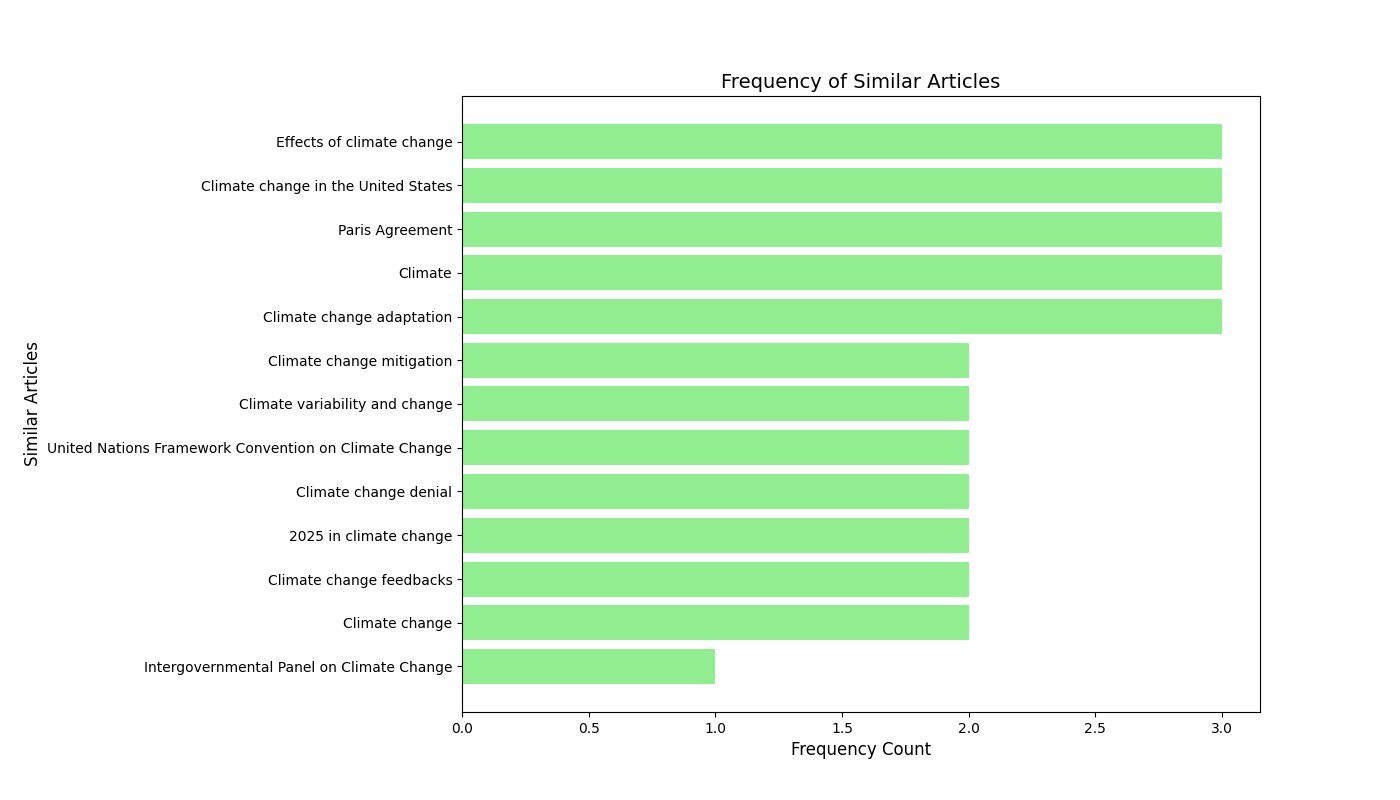
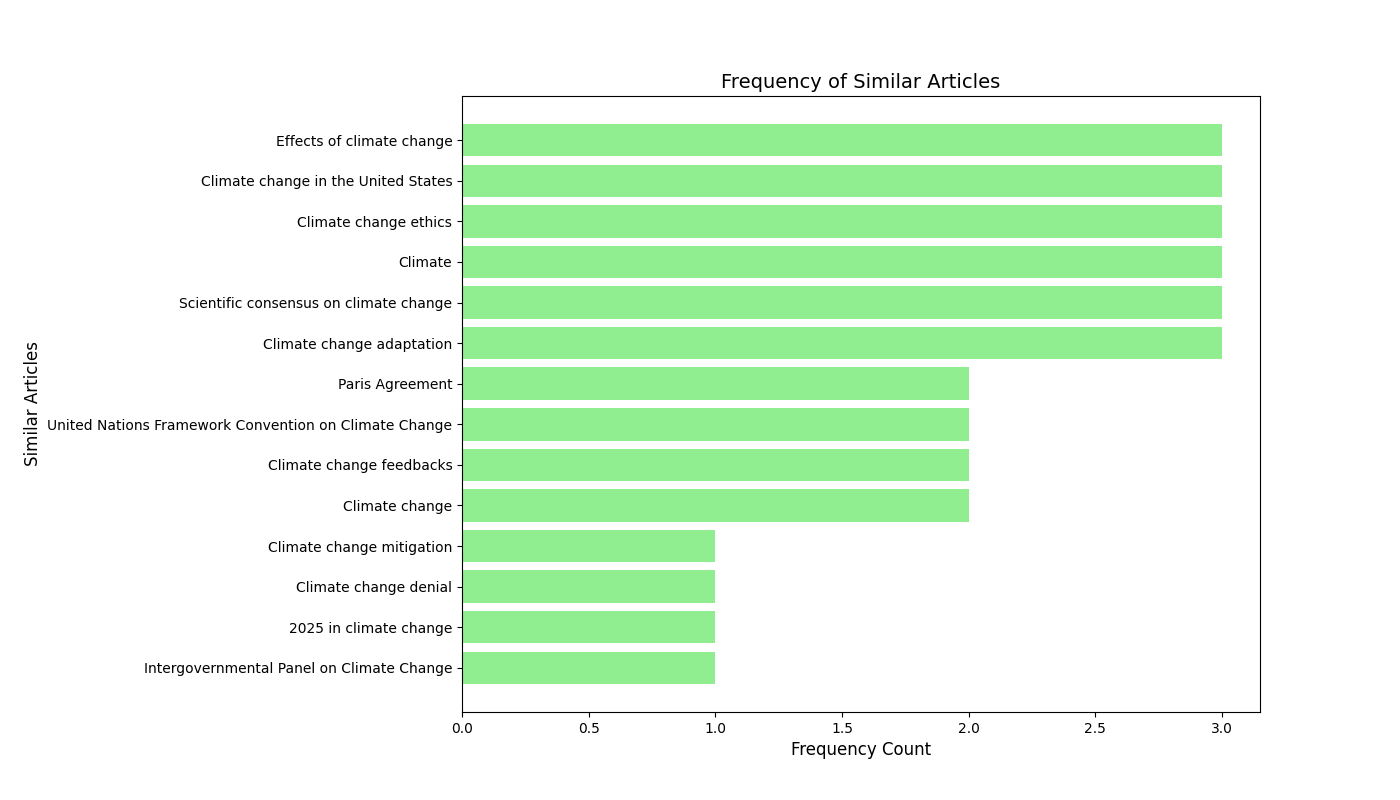
Fix article_freq graph

Changed region(s): [[0.0307, 0.1875, 0.8907, 0.8438], [0.1843, 0.1562, 0.3379, 0.1875]]

diff --git a/Module3/climate_change_article_similarity.py b/Module3/climate_change_article_similarity.py
@@ -47,7 +47,7 @@ def search_articles(query, max_results=20):
 
 def get_article_content(article_title):
     """
-    Fetch the content of a Wikipedia article.
+    Fetch the introductory extract of a Wikipedia article.
     """
     params = {
         "action": "query",
@@ -63,7 +63,6 @@ def get_article_content(article_title):
     pages = data.get('query', {}).get('pages', {})
     page_id = list(pages.keys())[0]
     article_content = pages[page_id].get('extract', '')
-
     return article_content
 
 
@@ -73,7 +72,7 @@ def calculate_similarity(articles_content):
     """
     vectorizer = TfidfVectorizer(stop_words='english')
     tfidf_matrix = vectorizer.fit_transform(articles_content)
-
+    
     similarity_matrix = cosine_similarity(tfidf_matrix)
     return similarity_matrix
 
@@ -87,7 +86,7 @@ def find_similar_pages(query_articles, all_articles, num_similar_pages=10):
 
     # Compute similarity matrix
     similarity_matrix = calculate_similarity(all_articles_content)
-
+    
     # Find the most similar pages for each query article
     similar_articles = {}
     for i, query_article in enumerate(query_articles):
@@ -101,6 +100,7 @@ def find_similar_pages(query_articles, all_articles, num_similar_pages=10):
             similar_articles[query_article] = [
                 (all_articles[idx], similarity_scores[idx]) for idx in similar_indices
             ]
+
 
     return similar_articles
 
@@ -122,7 +122,6 @@ def write_results_to_csv(similar_articles, filename="similar_articles.csv"):
 
 # Search for the top 20 articles related to climate change
 all_articles = search_articles("Climate change", max_results=20)
-
 # Use the first 3 as the main query articles
 query_articles = all_articles[:3]
 

diff --git a/Module3/visualize_similar_articles.py b/Module3/visualize_similar_articles.py
@@ -36,13 +36,13 @@ def plot_similar_articles_frequency(csv_filename):
 
     # Plot the bar chart
     plt.figure(figsize=(14, 8))  # Increase figure size for better readability
-    bars = plt.barh(articles, counts, color='lightgreen')
+    plt.barh(articles, counts, color='lightgreen')
 
     # Invert y-axis to have the highest count at the top
     plt.gca().invert_yaxis()
 
     # Add labels and title
-    plt.xlabel('Frequency Count', fontsize=12)
+    plt.xlabel('Frequency Count', fontsize=12) # number of times that each article shows up across all query articles
     plt.ylabel('Similar Articles', fontsize=12)
     plt.title('Frequency of Similar Articles', fontsize=14)
 
